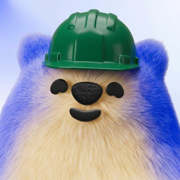
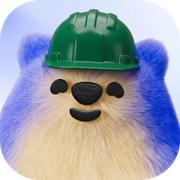
full journey of AI OS summarized + variousn additional changes across the repo

Changed region(s): [[0.8056, 0.8056, 1.0, 1.0], [0.0, 0.8056, 0.1944, 1.0], [0.0, 0.0, 0.1944, 0.1944]]

diff --git a/src/data/content.js b/src/data/content.js
@@ -29,52 +29,45 @@ export const pathSteps = [
 ];
 
 // — My AI OS —
-// One step per stage of the journey, top to bottom. `status`: 'done' | 'progress'.
+// One step per stage of the journey, top to bottom. `status`: 'done' | 'progress' | 'future'.
 // Drop an image in src/assets and set `image` (plus `imageAlt`) to replace a step's placeholder.
 
 export const roadmapSteps = [
   {
     status: 'done',
     title: 'Turning my PM work into Claude skills',
-    desc: 'It started with me: I wrote reusable Claude skills for the work I repeat every week — specs, Linear tickets, weekly reviews, stakeholder updates, benchmarks. Each skill encodes how I actually work, so the output is consistent from one run to the next.',
-    tags: ['Claude', 'Skills', 'Prompts'],
-    illustration: 'Paul at a workbench, turning sticky notes into neat little skill cards',
+    desc: "It started with Claude skills I could use every day: refining specs, replacing repetitive tasks (feature performance reviews, stakeholder updates, benchmarks..), building. I wanted to improve my productivity, but most importantly to be able to iterate fast, update these on the go while having access to my full context. The AI OS system seemed like the perfect solution",
+    tags: ['Claude', 'Skills', 'Day-to-day ops'],
+    illustration: 'Screenshot of the skills repository (folder list of skills)',
   },
   {
     status: 'done',
-    title: 'Sharing it with the Product tribe — and training them',
-    desc: 'Skills only matter if people use them. I presented the setup to the Product tribe and ran training sessions so every PM could pick it up in their own workflows.',
-    tags: ['Adoption', 'Training', 'Product tribe'],
-    illustration: 'Paul in front of a small group of PMs, a big skill card on the whiteboard',
+    title: 'Sharing it with the Product tribe as a Claude plugin',
+    desc: "Skills only matter if people use them. To get feedbacks faster, with differrent technical background, abilities and enthusiasm among the tribe, I have first embedded those skills into a Claude plugin that everyone was able to use with no code integration. PMs were able to review the skills and make it their own from the Claude dekstop interface.",
+    tags: ['Plugin', 'Training', 'Product tribe'],
+    illustration: 'Screenshot of Claude with the Product plugin installed and its skills listed',
   },
   {
     status: 'done',
-    title: 'Packaged as a plugin, shared through Git',
-    desc: 'To make it easy to install and to keep everyone up to date, I bundled the skills into a plugin, versioned in Git. One install, and every improvement reaches the whole team.',
-    tags: ['Plugin', 'Git', 'Versioning'],
-    illustration: 'A gift box labelled "plugin" travelling along a Git branch to several laptops',
-  },
-  {
-    status: 'done',
-    title: 'A real Product OS, in Claude Code & the terminal',
-    desc: 'Next, I turned the plugin into a proper Product OS: the same skills now run in Claude Code and straight from the terminal, connected to our tools (Linear, Notion) — not just in a chat window.',
-    tags: ['Claude Code', 'Terminal', 'MCP connectors'],
-    illustration: 'A friendly terminal window with a Product OS logo, plugged into Linear and Notion',
-  },
-  {
-    status: 'done',
-    title: 'Frameworks: several skills, chained end to end',
-    desc: 'Then came frameworks — tools that run several skills one after the other. From a two-line feature idea to a written spec, a functional summary and ready-to-use Linear tickets, with a check-in at each step.',
-    tags: ['Frameworks', 'Workflows', 'Linear'],
-    illustration: 'Skill cards clicking together like train carriages, from "idea" to "tickets"',
+    title: 'Driving adoption to the real repo',
+    desc: 'Next, I pushed the team into actually forking the Product OS and run it contributing to it. I wrote how-tos and documentation, and animated recurring demo sessions for the tribe to share progress and get their hands on to the solution. The plugin now has many contribution from the most active PMs and most AI-enthusiastic ones.',
+    tags: ['Fork', 'Documentation', 'MCP connectors'],
+    illustration: 'Screenshot of the AI OS folder structure (skills, docs, connectors)',
   },
   {
     status: 'progress',
+    title: 'Building agents: the Product Forge',
+    desc: "With a strong set up and a first set up of useful skills, the next natural steps was starting to build agentic workflows. The first natural step for Product Managers, widely documented among this community, is the creation of a Product Forge: which takes all the skills we're using for the different steps of our discoveries and delivery tracking and organizes it into a structured end-to-end workflow. The tribe's best practices get combined instead of staying in separate repos.",
+    tags: ['Agents', 'Multi-agent', 'Product Forge'],
+    illustration: 'A forge where skill cards from several PMs are melted into a few small agent characters working side by side',
+  },
+  {
+    status: 'future',
     target: true,
-    title: 'An autonomous agent you can talk to on Teams',
-    desc: 'The real target: an autonomous agent my colleagues can simply message on Microsoft Teams. It picks the right skills and frameworks on its own and comes back with the work done — moving from pull-based tools to a proactive assistant.',
-    tags: ['Agents', 'Microsoft Teams', 'Autonomy'],
-    illustration: 'A friendly agent character popping out of a Teams chat bubble, handing over a finished doc',
+    title: 'An AI OS you can reach from Teams, even on mobile',
+    desc: "At a recent internal hackathon, I built a prototype where the AI OS was running directly inside Microsoft Teams, for a wider non-tech audience to be able to package skills they're using and call them without even being at their desk. That's where it's heading: a Product OS that's always within reach.",
+    tags: ['Hackathon', 'Microsoft Teams', 'Mobile'],
+    illustration: 'A phone showing a Teams chat with the agent replying with a finished doc',
   },
 ];
 
@@ -221,5 +214,5 @@ export const skillsNote = 'Curious and keen on learning, I regularly take new ce
 
 export const interests = [
   { label: 'Sports', text: 'Rugby in competition (20+ years), Trail' },
-  { label: 'Side Projects', text: 'Building AI-first PWAs (sports planner via LLM API + Google Calendar, recipe planner, RAG-based CV generator), exploring how to move from simple chatbots to proactive AI-first products' },
+  { label: 'Side Projects', text: 'Building AI-first PWAs (sports planner via LLM API + Google Calendar, Recipe planner with Supabase..), exploring how to move from simple chatbots to proactive AI-first products' },
 ];

diff --git a/src/pages/Roadmap.jsx b/src/pages/Roadmap.jsx
@@ -16,6 +16,7 @@ const BLOBS = [
 const STATUS = {
   done: { label: 'Done', cls: 'tag-accent-2' },
   progress: { label: 'In progress', cls: 'tag-accent' },
+  future: { label: 'The future', cls: 'tag-outline' },
 };
 
 // Fills the thread as the reader scrolls, and lights up each step's node once it's passed.
@@ -72,17 +73,21 @@ export default function Roadmap() {
   const journeyRef = useRef(null);
   useJourneyProgress(journeyRef);
 
-  const shipped = roadmapSteps.filter((s) => s.status === 'done').length;
+  const count = (status) => roadmapSteps.filter((s) => s.status === status).length;
+  const shipped = count('done');
+  const inProgress = count('progress');
+  const upcoming = count('future');
 
   return (
     <section className="page" data-screen-label="My AI OS">
       <div data-reveal className="roadmap-intro">
         <span className="eyebrow">My AI OS</span>
-        <h1 className="page-title">My AI assistants, built in the open.</h1>
-        <p className="page-lede">How AI went from a personal habit to a shared Product OS — and where it's heading next: an autonomous agent my colleagues can simply talk to. Scroll down to follow the journey, one step at a time.</p>
+        <h1 className="page-title">My current approach to AI at work: building assistants in the open.</h1>
+        <p className="page-lede">It all started with a personal habit. I wanted to build agentic frameworks that would help me write complete specs and build those, to save time while building side projects in parallel to my work. I had seen many articles, podcasts and articles about personal AI OS, and decided to try it. It became so powerful that I immediately wanted to try it at work. You can scroll down to follow that journey</p>
         <div className="journey-summary">
           <span className="tag tag-accent-2">{shipped} steps shipped</span>
-          <span className="tag tag-accent">{roadmapSteps.length - shipped} in progress</span>
+          <span className="tag tag-accent">{inProgress} in progress</span>
+          {upcoming > 0 && <span className="tag tag-outline">{upcoming} upcoming</span>}
         </div>
       </div>
 

diff --git a/src/styles/app.css b/src/styles/app.css
@@ -108,8 +108,7 @@ main.container { flex: 1; }
 }
 .hero-art img {
   position: absolute; width: 100%; height: 100%;
-  object-fit: cover; object-position: 50% 48%;
-  transform: scale(1.18); transform-origin: 50% 48%;
+  object-fit: cover; object-position: center;
 }
 
 .hero h1 { font-size: clamp(44px, 6vw, 76px); line-height: 1.06; margin: 0; letter-spacing: -0.01em; }
@@ -180,6 +179,7 @@ main.container { flex: 1; }
 }
 .step-node--done.is-reached { background: var(--color-accent-2); color: var(--color-bg); }
 .step-node--progress.is-reached { background: var(--color-accent); color: var(--color-bg); }
+.step-node--future.is-reached { background: var(--color-bg); color: var(--color-accent); border: 2px dashed var(--color-accent); }
 .step-node--progress.is-reached::after {
   content: ''; position: absolute; inset: -6px; border-radius: 50%;
   border: 2px solid var(--color-accent); animation: node-pulse 2s ease-out infinite;
@@ -387,7 +387,12 @@ a.roadmap-card:hover { transform: translateY(-2px); box-shadow: var(--shadow-md)
   padding-block: clamp(56px, 8vw, 112px) clamp(64px, 9vw, 120px);
 }
 .avatar { position: relative; width: 160px; height: 160px; margin: 0 auto; }
-.avatar .placeholder { width: 160px; height: 160px; border-radius: 50%; font-size: 13px; padding: 20px; }
+.avatar-photo {
+  position: relative; z-index: 1;
+  width: 160px; height: 160px; border-radius: 50%;
+  object-fit: cover; object-position: center 18%;
+  box-shadow: var(--shadow-md);
+}
 .contact h1 { font-size: clamp(34px, 4.4vw, 50px); line-height: 1.1; margin: 32px 0 0; }
 .contact-lede { font-size: 17px; color: var(--color-neutral-800); margin: 14px 0 0; }
 .contact-list { display: flex; flex-direction: column; gap: 12px; margin-top: 40px; text-align: left; }

diff --git a/src/pages/Contact.jsx b/src/pages/Contact.jsx
@@ -1,6 +1,6 @@
 import { useEffect, useRef, useState } from 'react';
 import { contact } from '../data/content.js';
-import Placeholder from '../components/Placeholder.jsx';
+import portrait from '../assets/paul-portrait.jpg';
 import {
   CheckIcon, CopyIcon, ExternalLinkIcon, GithubIcon, LinkedinIcon, MailIcon, PhoneIcon,
 } from '../components/Icons.jsx';
@@ -48,10 +48,10 @@ export default function Contact() {
       <div data-reveal>
         <div className="avatar">
           <div className="blob" style={{ width: 60, background: 'var(--color-accent-2-300)', right: -14, top: -6 }} />
-          <Placeholder>[Profile photo placeholder]</Placeholder>
+          <img className="avatar-photo" src={portrait} alt="Paul Dumas" />
         </div>
-        <h1>Let's talk product, AI, or rugby.</h1>
-        <p className="contact-lede">I usually reply within a day. Copy my email or phone, or open my profiles.</p>
+        <h1>Let's talk product, AI, or Sales funnel.</h1>
+        <p className="contact-lede">Here are all my contact details. You can also check out my Linkedin or Github profiles for more information.</p>
       </div>
       <div className="contact-list">
         {cards.map((card) => (card.action === 'link' ? (

diff --git a/src/pages/Home.jsx b/src/pages/Home.jsx
@@ -1,7 +1,7 @@
 import { config, pathSteps } from '../data/content.js';
 import Placeholder from '../components/Placeholder.jsx';
 import { hrefFor, noop } from '../nav.js';
-import handshake from '../assets/paul-shaking-hands.png';
+import verdi from '../assets/verdi.jpg';
 
 export default function Home() {
   return (
@@ -23,8 +23,8 @@ export default function Home() {
           <div className="blob" style={{ width: '22%', background: 'var(--color-accent-2-300)', left: '-3%', bottom: '-4%' }} />
           <div className="hero-art">
             <img
-              src={handshake}
-              alt="Paul shaking hands with a friendly character"
+              src={verdi}
+              alt="Verdi, a brown and white dog, lying on the floor"
             />
           </div>
         </div>

diff --git a/src/App.jsx b/src/App.jsx
@@ -63,7 +63,7 @@ export default function App() {
       </main>
 
       <footer className="site-footer container">
-        <p>Let me know what you think! and let's talk about the Product Builder role</p>
+        <p>Let me know what you think! And let's talk about the Product Builder role</p>
         <div className="social-links">
           <a href={contact.linkedin} target="_blank" rel="noopener noreferrer" aria-label="LinkedIn" className="social-link"><LinkedinIcon size={18} /></a>
           <a href={contact.github} target="_blank" rel="noopener noreferrer" aria-label="GitHub" className="social-link"><GithubIcon size={18} /></a>
